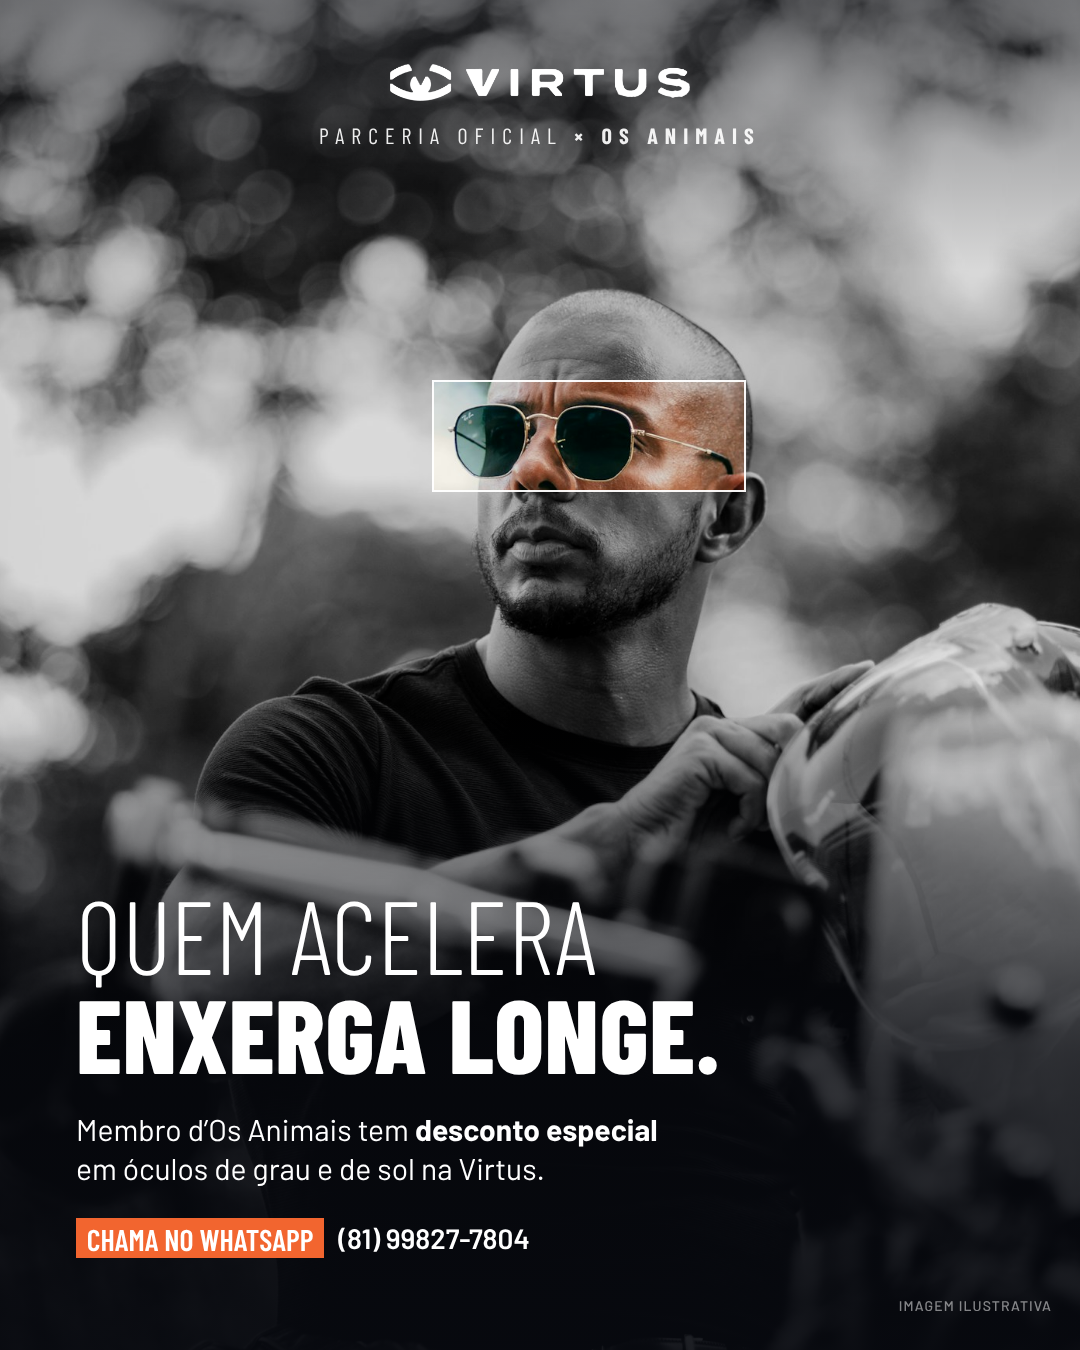
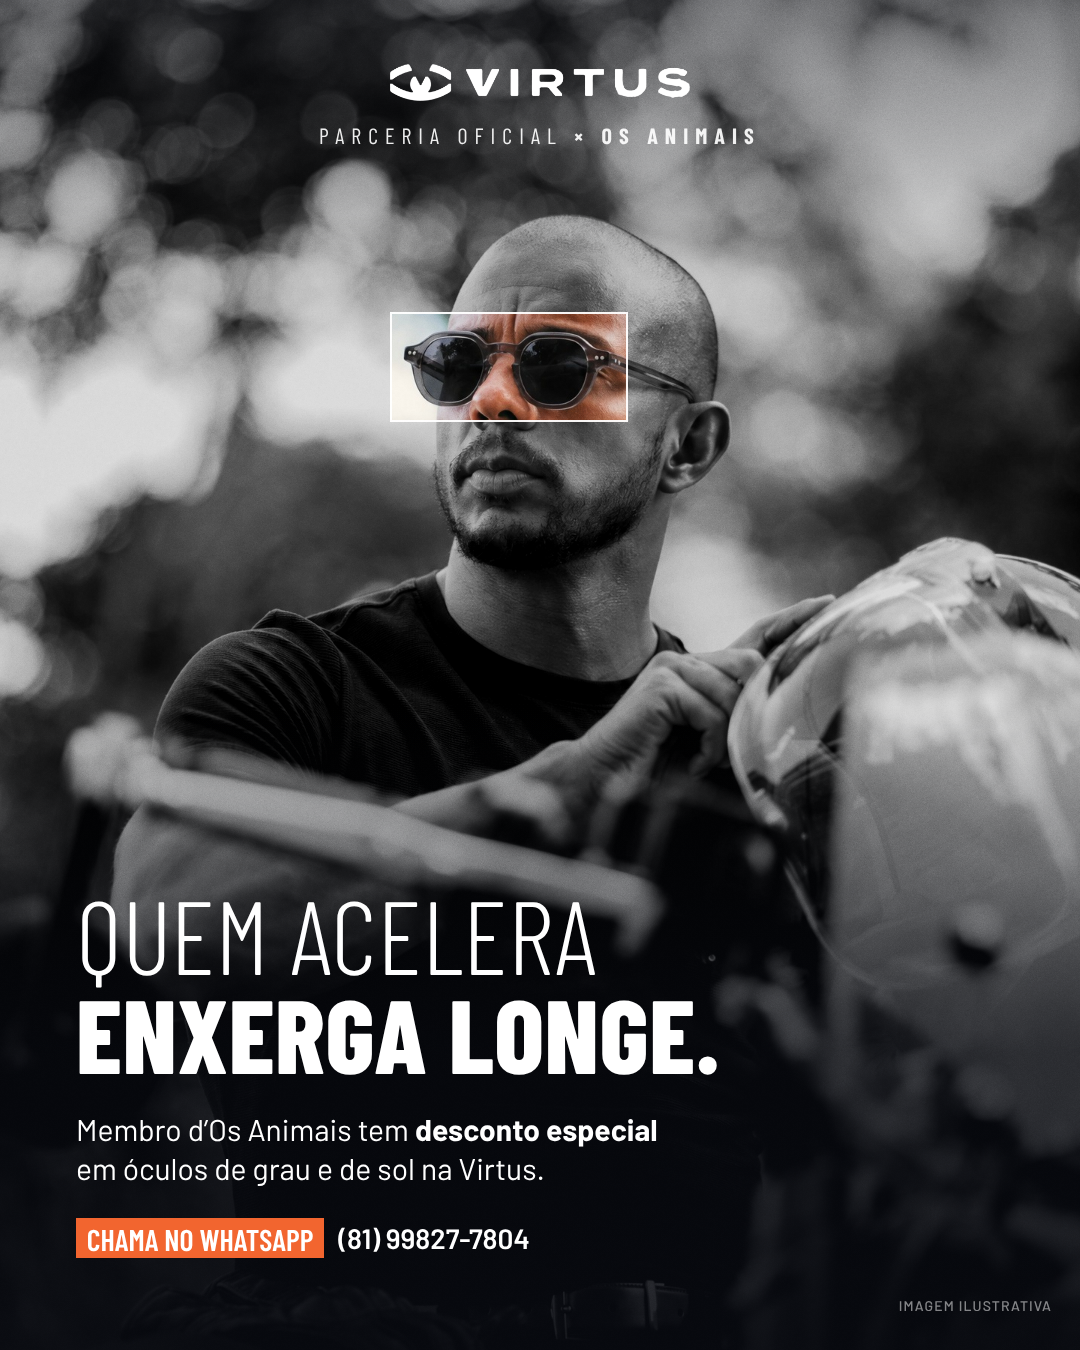
Virtus × Os Animais: foto com o óculos Virtus aplicado, grão para suavizar banding
Claude-Session: https://claude.ai/code/session_016PvmTrd1qxEs9SMneTLJh3

diff --git a/criativos/virtus-os-animais/fonte/story.html b/criativos/virtus-os-animais/fonte/story.html
@@ -1,13 +1,13 @@
 <!doctype html><html><head><meta charset="utf-8"><link rel="stylesheet" href="base.css"><style>
 .p{width:1080px;height:1920px}
-.ph,.ph-cor{background-size:auto 1920px;background-position:-120px 0}
+.ph,.ph-cor{background-size:1747px auto;background-position:-331px 0}
 /* óculos: x 376-672, y 752-832 */
-.ph-cor{clip-path:inset(742px 398px 1068px 366px)}
-.recorte{left:366px;top:742px;width:316px;height:110px}
+.ph-cor{clip-path:inset(466px 418px 1302px 330px)}
+.recorte{left:330px;top:466px;width:332px;height:152px}
 .shade{background:linear-gradient(180deg,rgba(8,10,16,.55) 0%,rgba(8,10,16,0) 18%,rgba(8,10,16,0) 46%,rgba(8,10,16,.78) 62%,rgba(8,10,16,.94) 80%,rgba(8,10,16,.97) 100%)}
-.logo{top:268px;width:320px}
-.parc{top:330px;font-size:24px}
-.txt{position:absolute;left:84px;right:84px;top:1010px}
+.logo{top:252px;width:290px}
+.parc{position:static;text-align:left;font-size:24px;margin-bottom:22px}
+.txt{position:absolute;left:84px;right:84px;top:970px}
 .kick{font:300 64px/1 "Barlow Condensed";text-transform:uppercase}
 .kick b{font-weight:800}
 .off{margin-top:8px;font:800 190px/.86 "Barlow Condensed";color:var(--laranja);letter-spacing:-.01em}
@@ -23,10 +23,10 @@
 .cta .num{font:600 32px Barlow}
 .ilu{position:absolute;right:30px;top:1700px;font:500 14px Barlow;letter-spacing:.08em;text-transform:uppercase;opacity:.5}
 </style></head><body><div class="p">
-<div class="ph"></div><div class="ph-cor"></div><div class="recorte"></div><div class="shade"></div>
+<div class="ph"></div><div class="ph-cor"></div><div class="recorte"></div><div class="shade"></div><div class="grain"></div>
 <img class="logo" src="logo-virtus-branco.png">
-<div class="parc">Parceria oficial <b>×</b> <b>Os Animais</b></div>
 <div class="txt">
+ <div class="parc">Parceria oficial <b>×</b> <b>Os Animais</b></div>
  <div class="kick">Membro d’<b>Os Animais</b> tem</div>
  <div class="off">XX<small>% OFF</small></div>
  <div class="sub">em óculos de <b>grau e de sol.</b></div>

diff --git a/criativos/virtus-os-animais/fonte/feed.html b/criativos/virtus-os-animais/fonte/feed.html
@@ -1,9 +1,9 @@
 <!doctype html><html><head><meta charset="utf-8"><link rel="stylesheet" href="base.css"><style>
 .p{width:1080px;height:1350px}
-.ph,.ph-cor{background-size:1240px auto;background-position:-30px -330px}
+.ph,.ph-cor{background-size:1248px auto;background-position:-82px -20px}
 /* óculos na foto: ~x450-737 y398-476 */
-.ph-cor{clip-path:inset(380px 334px 858px 432px)}
-.recorte{left:432px;top:380px;width:314px;height:112px}
+.ph-cor{clip-path:inset(312px 452px 928px 390px)}
+.recorte{left:390px;top:312px;width:238px;height:110px}
 .shade{background:linear-gradient(180deg,rgba(8,10,16,.45) 0%,rgba(8,10,16,0) 20%,rgba(8,10,16,0) 52%,rgba(8,10,16,.72) 78%,rgba(8,10,16,.9) 100%)}
 .logo{top:64px;width:300px}
 .parc{top:122px}
@@ -14,7 +14,7 @@ h1{font-size:104px}
 .cta .tarja{font-size:30px}
 .ilu{position:absolute;right:28px;bottom:36px;font:500 14px Barlow;letter-spacing:.08em;text-transform:uppercase;opacity:.5}
 </style></head><body><div class="p">
-<div class="ph"></div><div class="ph-cor"></div><div class="recorte"></div><div class="shade"></div>
+<div class="ph"></div><div class="ph-cor"></div><div class="recorte"></div><div class="shade"></div><div class="grain"></div>
 <img class="logo" src="logo-virtus-branco.png">
 <div class="parc">Parceria oficial <b>×</b> <b>Os Animais</b></div>
 <div class="txt">

diff --git a/criativos/virtus-os-animais/fonte/base.css b/criativos/virtus-os-animais/fonte/base.css
@@ -4,7 +4,7 @@
 html,body{background:#111}
 .p{position:relative;overflow:hidden;color:#fff;font-family:Barlow,sans-serif}
 /* foto P&B + recorte em cor (padrão aprovado da Virtus) */
-.ph,.ph-cor{position:absolute;inset:0;background:url(foto1.jpg) no-repeat}
+.ph,.ph-cor{position:absolute;inset:0;background:url(foto-oculos-virtus.jpg) no-repeat}
 .ph{filter:grayscale(1) contrast(1.08) brightness(.86)}
 .recorte{position:absolute;border:2px solid rgba(255,255,255,.95)}
 .shade{position:absolute;inset:0}
@@ -18,3 +18,4 @@ h1 .l{font-weight:300}h1 .b{font-weight:800}
 .tarja{display:inline-block;font-family:"Barlow Condensed";text-transform:uppercase;font-weight:600;line-height:1;padding:.18em .36em .14em}
 .t-laranja{background:var(--laranja);color:#fff}
 .t-marinho{background:var(--marinho);color:#fff}
+.grain{position:absolute;inset:0;background:url(grain.png);background-size:300px;mix-blend-mode:overlay;opacity:.16;pointer-events:none}
